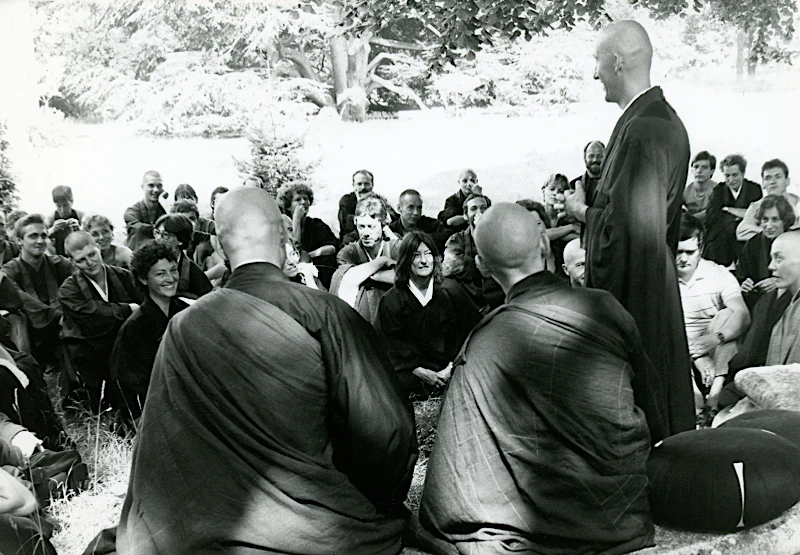
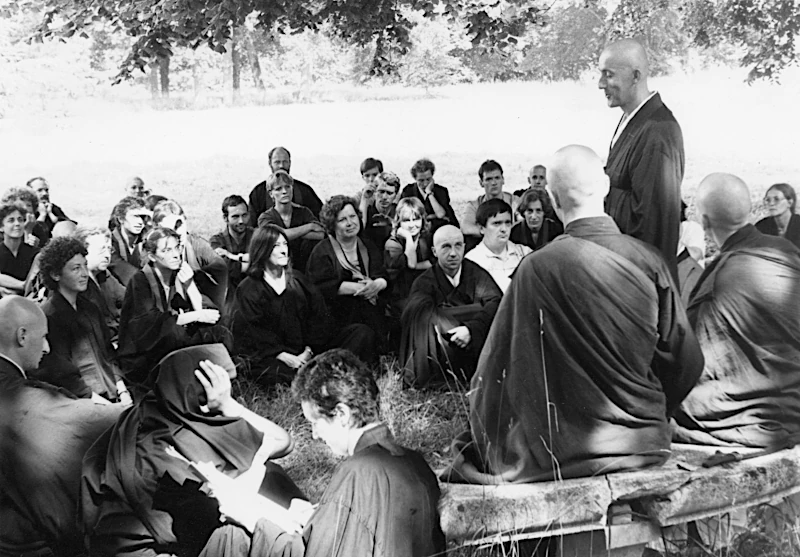
Ajout photo Josy/Kosen

diff --git a/src/content/meditation-zen/maitre-kosen-thibaut.md b/src/content/meditation-zen/maitre-kosen-thibaut.md
@@ -24,3 +24,8 @@ Il a fondé et animé de nombreux **dojos**, **sesshins** et **lieux de pratique
 *Josy Thibaut (centre), fondatrice de Zen Paris, lors d'une session du camp d'été 1982 dirigée par maître Kosen (debout)*
 
 Maître Kosen Thibaut a laissé une empreinte durable par son engagement, ses enseignements oraux, ses écrits et la communauté qu’il a contribué à faire vivre. Son héritage se poursuit aujourd’hui à travers les sanghas et pratiquants qui s’inscrivent dans sa lignée.
+
+![Maître Kosen dirigeant la 5e session du camp d'été 1982 au temple zen de la Gendronnière](/assets/kosen-sesshin-gendronniere.webp)
+
+
+*Maître Kosen dirigeant la 5<sup>e</sup> session du camp d'été 1982 au temple zen de la Gendronnière*
